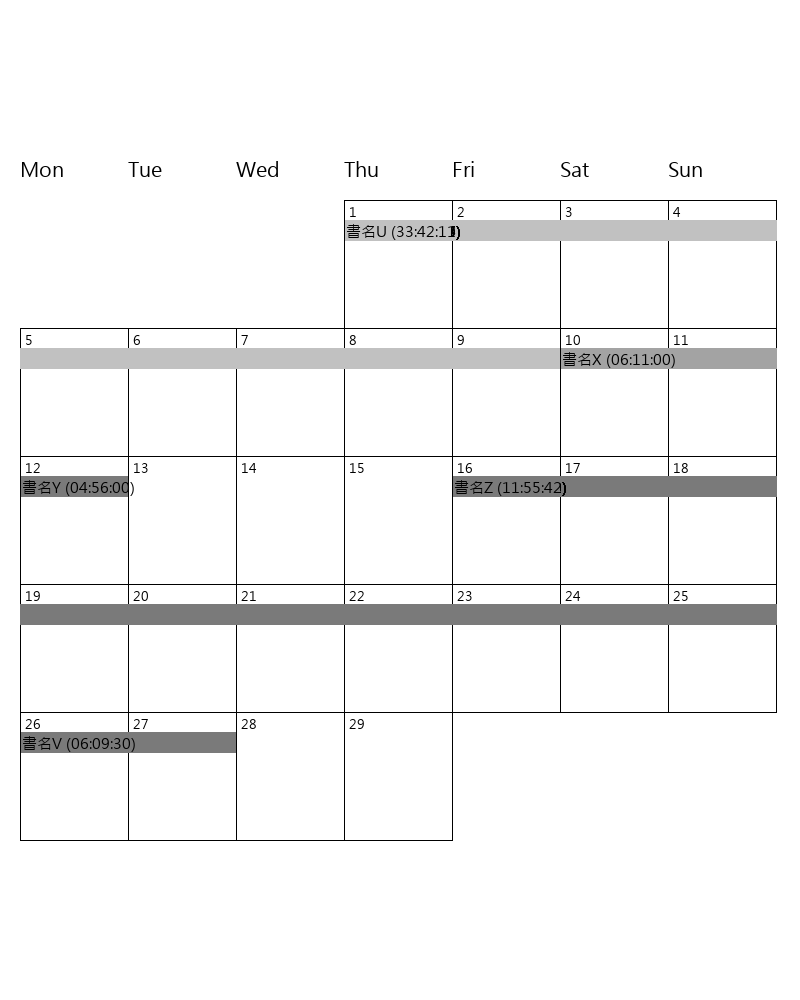
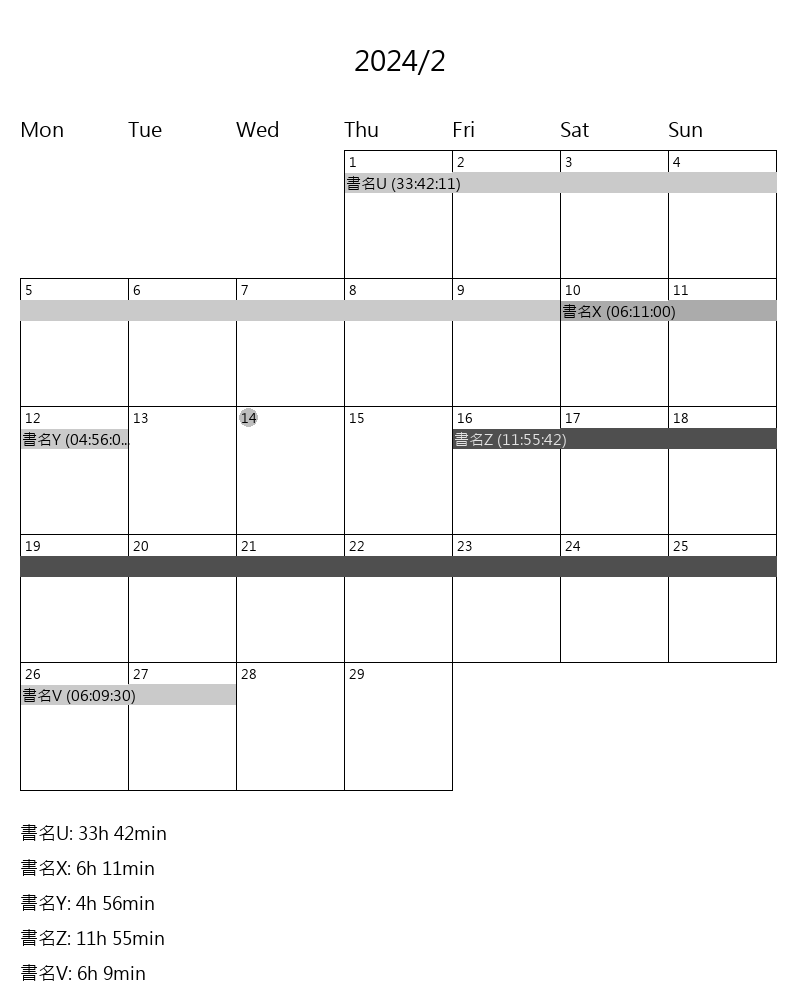
Feat highlight today

diff --git a/readingCalendar.py b/readingCalendar.py
@@ -35,8 +35,10 @@ image = Image.new("L", (screen_width, screen_height), color="white")
 draw = ImageDraw.Draw(image, "L")
 
 # set date
-current_year = datetime.now().year
-current_month = datetime.now().month
+current_date = datetime.now()
+current_year = current_date.year
+current_month = current_date.month
+current_day = current_date.day
 cal_data = calendar.monthcalendar(current_year, current_month)
 
 # Load a font
@@ -105,6 +107,8 @@ def draw_calendar(events_data):
 
             # Draw the day number with outline
             if day != 0:
+                if current_day == day:
+                    draw.ellipse((x + 3, y + 2, x + 21, y + 20), fill='#bdbebf')
                 draw.text((x + 5, y + 3), str(day), font=font_sm, fill="black")
                 draw.rectangle([x, y, x + cell_size, y + cell_size + 20], outline="black")
 
@@ -117,7 +121,7 @@ def draw_calendar(events_data):
             # print(events_on_day)
             if events_on_day:
                 event_height = 20
-                event_y = 20 + y
+                event_y = 20 + y + 2
 
                 for i, event in enumerate(events_on_day):
                     event_block_color = gray_palette[(week_num + total_event_count) % 4]

diff --git a/readingCalendar_local.py b/readingCalendar_local.py
@@ -18,8 +18,11 @@ screen_height = 1000
 image = Image.new("L", (screen_width, screen_height), "white")
 draw = ImageDraw.Draw(image)
 
-current_year = datetime.now().year
+# set date
+current_date = datetime.now()
+current_year = current_date.year
 current_month = 2
+current_day = current_date.day
 cal_data = calendar.monthcalendar(current_year, current_month)
 
 # Load a font
@@ -86,6 +89,8 @@ def draw_calendar(events_data):
 
             # Draw the day number with outline
             if day != 0:
+                if current_day == day:
+                    draw.ellipse((x + 3, y + 2, x + 21, y + 20), fill='#bdbebf')
                 draw.text((x + 5, y + 3), str(day), font=font_sm, fill="black")
                 draw.rectangle([x, y, x + cell_size, y + cell_size + 20], outline="black")
 
@@ -98,7 +103,7 @@ def draw_calendar(events_data):
             # print(events_on_day)
             if events_on_day:
                 event_height = 20
-                event_y = 20 + y
+                event_y = 20 + y + 2
 
                 for i, event in enumerate(events_on_day):
                     event_block_color = gray_palette[(week_num + total_event_count) % 4]
